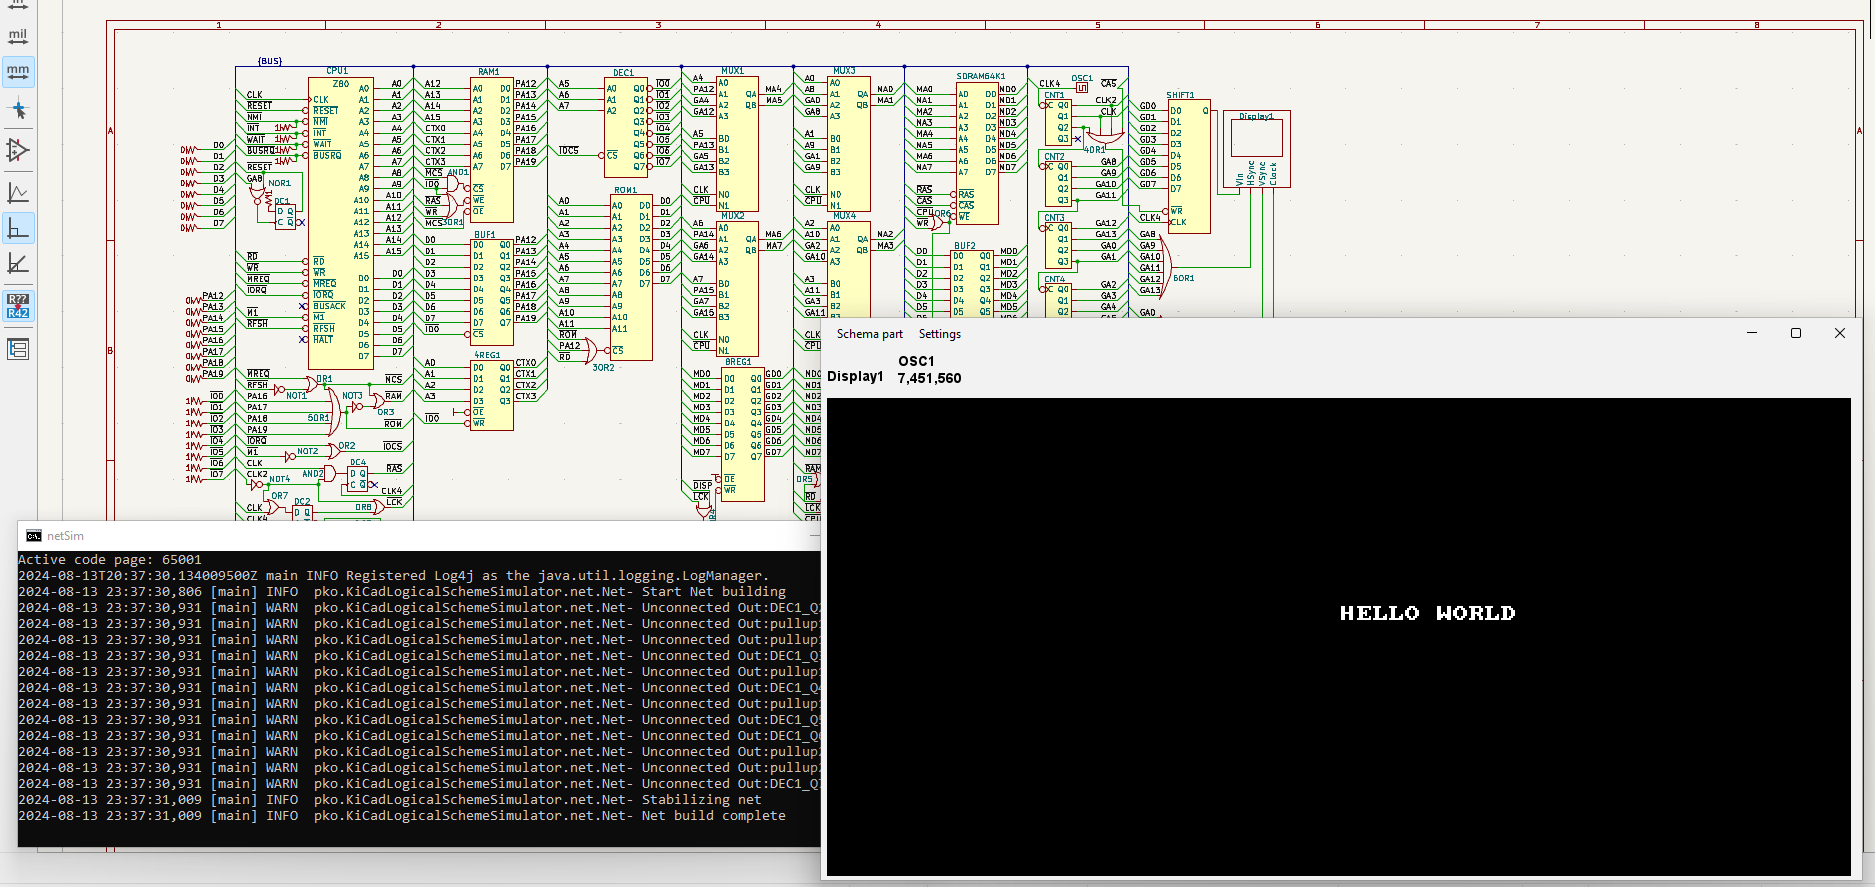
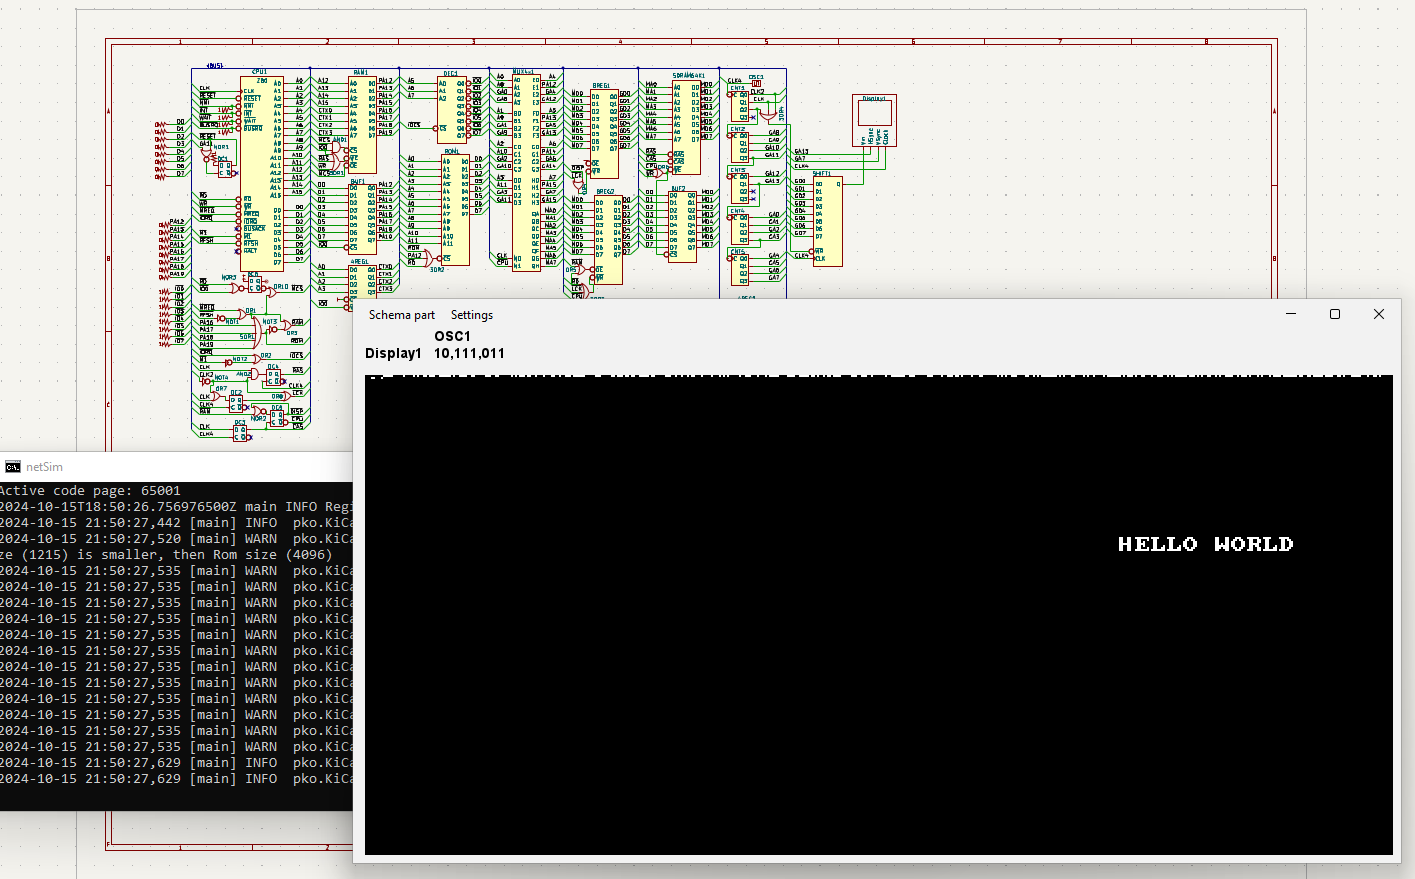
readme

diff --git a/stuff/examples/counters/README.md b/stuff/examples/counters/README.md
@@ -2,10 +2,10 @@
 
 **Sequential counters with LED, ideal for speed test.**
 
-On an Intel i-3770s, this schema achieved approximately 380 MHz.
+On an Intel i-3770s, this schema achieved approximately 520 MHz.
 
-For comparison, [Digital](https://github.com/hneemann/Digital) on the same hardware achieved approximately 70 times less speed.  
-However, it is important to note that [Digital](https://github.com/hneemann/Digital) and this project have different schema building principles,
+For comparison, [Digital](https://github.com/hneemann/Digital) on the same hardware achieved approximately 90 times less speed.  
+However, important to note that [Digital](https://github.com/hneemann/Digital) and this project have different schema building principles,
 which may affect simulation speed.  
 Additionally, this project provides real-time feedback on achieved frequency,
 while [Digital](https://github.com/hneemann/Digital) doesn't offer this feature.

diff --git a/stuff/examples/z80/README.md b/stuff/examples/z80/README.md
@@ -8,7 +8,7 @@ This schema contains a total about 80 parts, including:
 - 5 DC triggers
 - 5 counters
 - 4 registers
-- 4 2-bit 4-way multiplexers
+- 8-bit 4-way multiplexers
 - 2 buffers
 - 1 Zilog Z80 CPU
 - 1 D-RAM
@@ -19,7 +19,8 @@ This schema contains a total about 80 parts, including:
 - 1 shifter
 - 1 display (providing 512x256 in monochrome)
 
-On an Intel i7-3770s processor, this schema achieved about ~7.4 MHz. Internally, the oscillator frequency is divided by 4 for the CPU, but not for the
-video part and memory access, resulting in the Z80 being clocked at ~1.8 MHz.
+On an Intel i7-3770s processor, this schema achieved about 10 MHz.  
+Internally, the oscillator frequency divided by 4 for the CPU, but not for the video part and memory access,  
+resulting the Z80 clocked at ~2.5 MHz.
 
 I didn't find any reasonable competitor in which I can draw this schema as easily as I can in KiCad, and with decent simulation speed.
